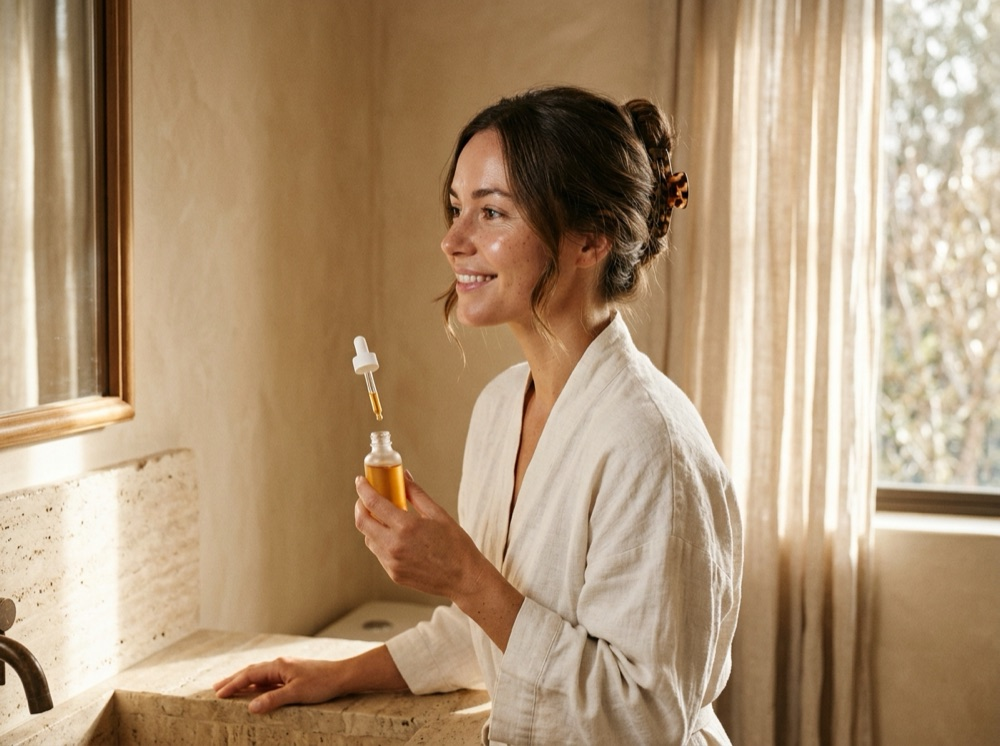
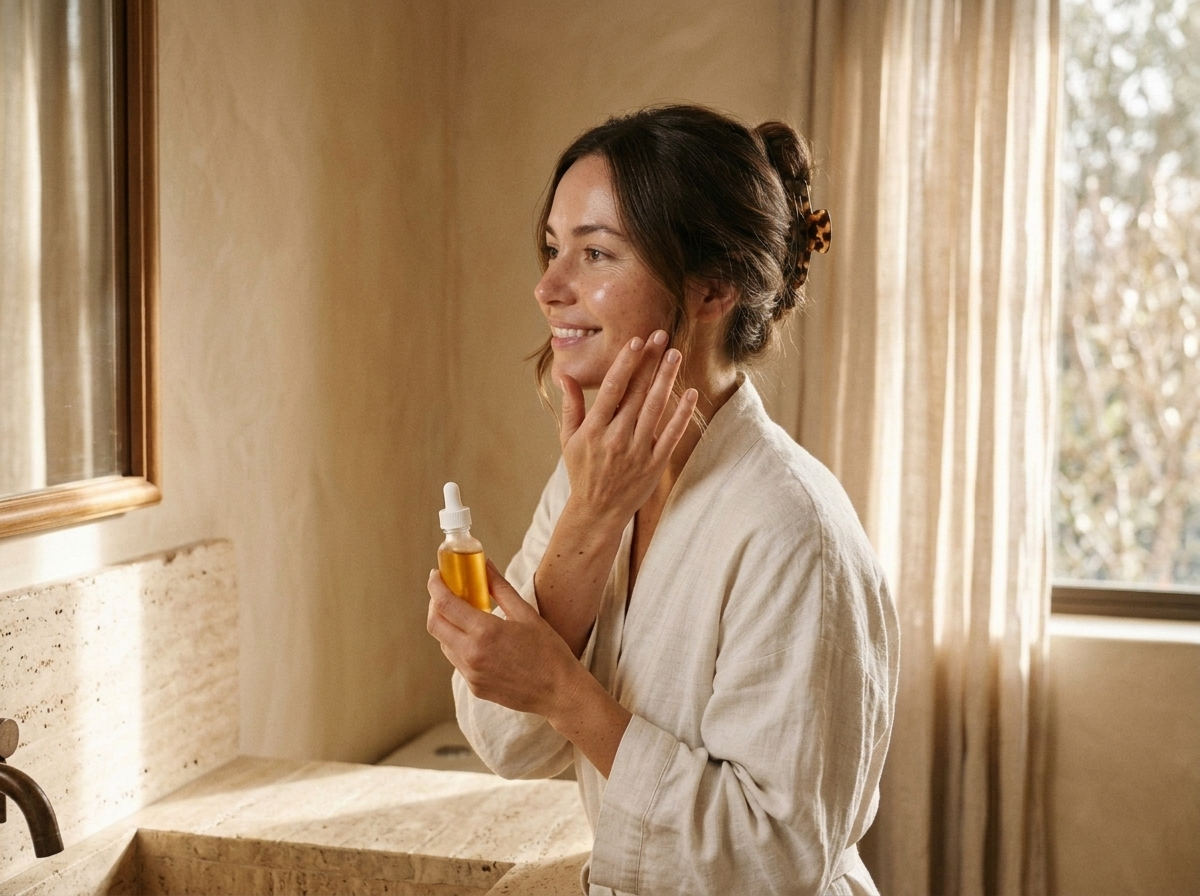
fix(imagery): replace floating pipette morning portrait + add +1/day automated celebrity shelf release engine

diff --git a/src/exact-baseline-ui.js b/src/exact-baseline-ui.js
@@ -78,7 +78,7 @@ function buildExactBaselineStyles(cfg) {
   .eb-action-btn { padding: 6px 12px; border-radius: 8px; font-size: 14px; font-weight: 600; background: #FFFFFF; color: ${t.textSecondary}; border: none; text-decoration: none; display: inline-flex; align-items: center; gap: 4px; white-space: nowrap; }
   .eb-action-btn:hover { color: ${t.brandPrimary}; background: ${t.brandSoftBg}; }
   #tripwire-upsell-box { display: none; margin-top: 8px; padding: 9px 13px; border-radius: 8px; background: ${t.safeSoftBg}; color: ${t.textPrimary}; border: none; font-size: 14px; align-items: center; justify-content: space-between; gap: 10px; flex-wrap: wrap; }
-  #sticky-mobile-bar { position: fixed; bottom: 0; left: 0; right: 0; z-index: 9990; display: flex !important; align-items: center; justify-content: space-between; gap: 10px; padding: 9px 20px; background: ${t.dockBg}; backdrop-filter: blur(14px); border: none; color: ${t.textPrimary}; font-family: ${t.fontSans}; transform: translateY(120%); opacity: 0; pointer-events: none; transition: transform 250ms ease, opacity 250ms ease; }
+  #sticky-mobile-bar { position: fixed; bottom: 0; left: 0; right: 0; z-index: 9990; display: flex !important; align-items: center; justify-content: space-between; gap: 10px; padding: 6px 20px; background: ${t.dockBg}; border: none; color: ${t.textPrimary}; font-family: ${t.fontSans}; transform: translateY(120%); opacity: 0; pointer-events: none; transition: transform 250ms ease, opacity 250ms ease; }
   #sticky-mobile-bar.eb-dock-visible { transform: translateY(0); opacity: 1; pointer-events: auto; }
   #eb-sticky-email-form, #btn-sticky-micro-unlock, #btn-copy-readme-badge, #btn-nuqs-share-url { display: none !important; }
   #stickyDock { display: none !important; }
@@ -176,15 +176,15 @@ function buildBottomConversionSuiteHtml(cfg, reqPath) {
     </div>
     <div class="eb-gbb-grid">
       <div class="eb-tier-card featured">
-        <div><div class="eb-doppelrand-shell" style="margin:0 0 10px 0;"><div class="eb-doppelrand-inner"><img src="/public/editorial-dossier.jpg" alt="${esc(cfg.brandName)} Deliverable Dossier" class="eb-doppelrand-img" style="height:84px;object-position:center 35%;" loading="lazy" /></div></div><div class="matrix-price" style="font-family:${t.fontDisplay};font-size:30px;font-weight:700;margin:6px 0;color:${t.textPrimary};">$1.99 <span style="font-family:${t.fontSans};font-size:14px;font-weight:500;color:${t.textMuted};">one-time • no subscription</span></div><p style="font-size:16px;color:${t.textSecondary};margin:0 0 14px 0;line-height:1.5;">${esc(cfg.tier1Desc || `Instantly unblurs ${cfg.deliverableName}, downloadable exports, and 24-hour recalculations.`)}</p></div>
+        <div><div class="eb-doppelrand-shell" style="margin:0 0 10px 0;"><div class="eb-doppelrand-inner"><img src="/public/editorial-dossier.jpg" alt="${esc(cfg.brandName)} Deliverable Dossier" class="eb-doppelrand-img" style="height:84px;object-position:center 35%;" loading="lazy" /></div></div><div class="matrix-price" style="font-family:${t.fontSans};font-size:30px;font-weight:700;margin:6px 0;color:${t.textPrimary};">$1.99 <span style="font-family:${t.fontSans};font-size:14px;font-weight:500;color:${t.textMuted};">one-time • no subscription</span></div><p style="font-size:16px;color:${t.textSecondary};margin:0 0 14px 0;line-height:1.5;">${esc(cfg.tier1Desc || `Instantly unblurs ${cfg.deliverableName}, downloadable exports, and 24-hour recalculations.`)}</p></div>
         <button type="button" id="btn-prog-flash-pass" class="cta-btn" style="width:100%;padding:11px 14px;border-radius:${t.radiusPill};background:${t.brandPrimary};color:#FFFFFF;font-weight:700;font-size:14px;border:none;" onclick="window.__ebCheckout('flash_pass')">Unlock Single-Audit Pass ($1.99) →</button>
       </div>
       <div class="eb-tier-card">
-        <div><div class="eb-doppelrand-shell" style="margin:0 0 10px 0;"><div class="eb-doppelrand-inner"><img src="/public/editorial-hero.jpg" alt="${esc(cfg.brandName)} Complete Pack" class="eb-doppelrand-img" style="height:84px;object-position:center 50%;" loading="lazy" /></div></div><div class="matrix-price" style="font-family:${t.fontDisplay};font-size:30px;font-weight:700;margin:6px 0;color:${t.textPrimary};">$${esc(cfg.corePriceUsd)} <span style="font-family:${t.fontSans};font-size:14px;font-weight:500;color:${t.textMuted};">complete 50-question pack</span></div><p style="font-size:16px;color:${t.textSecondary};margin:0 0 14px 0;line-height:1.5;">${esc(cfg.tier2Desc || cfg.coreLabel)}</p></div>
+        <div><div class="eb-doppelrand-shell" style="margin:0 0 10px 0;"><div class="eb-doppelrand-inner"><img src="/public/editorial-hero.jpg" alt="${esc(cfg.brandName)} Complete Pack" class="eb-doppelrand-img" style="height:84px;object-position:center 50%;" loading="lazy" /></div></div><div class="matrix-price" style="font-family:${t.fontSans};font-size:30px;font-weight:700;margin:6px 0;color:${t.textPrimary};">$${esc(cfg.corePriceUsd)} <span style="font-family:${t.fontSans};font-size:14px;font-weight:500;color:${t.textMuted};">complete 50-question pack</span></div><p style="font-size:16px;color:${t.textSecondary};margin:0 0 14px 0;line-height:1.5;">${esc(cfg.tier2Desc || cfg.coreLabel)}</p></div>
         <button type="button" id="btn-prog-full-dossier" class="cta-btn" style="width:100%;padding:11px 14px;border-radius:${t.radiusPill};background:${t.subtleBg};color:${t.textPrimary};font-weight:700;font-size:14px;border:none;" onclick="window.__ebCheckout('complete_dossier')">${esc(cfg.coreLabel)}</button>
       </div>
       <div class="eb-tier-card">
-        <div><div class="eb-doppelrand-shell" style="margin:0 0 10px 0;"><div class="eb-doppelrand-inner"><img src="/public/editorial-dossier.jpg" alt="${esc(cfg.brandName)} Pro Tier" class="eb-doppelrand-img" style="height:84px;object-position:center 68%;" loading="lazy" /></div></div><div class="matrix-price" style="font-family:${t.fontDisplay};font-size:30px;font-weight:700;margin:6px 0;color:${t.textPrimary};">$${esc(cfg.proPriceUsd)} <span style="font-family:${t.fontSans};font-size:14px;font-weight:500;color:${t.textMuted};">agency weekly tracking</span></div><p style="font-size:16px;color:${t.textSecondary};margin:0 0 14px 0;line-height:1.5;">${esc(cfg.tier3Desc || cfg.proLabel)}</p></div>
+        <div><div class="eb-doppelrand-shell" style="margin:0 0 10px 0;"><div class="eb-doppelrand-inner"><img src="/public/editorial-dossier.jpg" alt="${esc(cfg.brandName)} Pro Tier" class="eb-doppelrand-img" style="height:84px;object-position:center 68%;" loading="lazy" /></div></div><div class="matrix-price" style="font-family:${t.fontSans};font-size:30px;font-weight:700;margin:6px 0;color:${t.textPrimary};">$${esc(cfg.proPriceUsd)} <span style="font-family:${t.fontSans};font-size:14px;font-weight:500;color:${t.textMuted};">agency weekly tracking</span></div><p style="font-size:16px;color:${t.textSecondary};margin:0 0 14px 0;line-height:1.5;">${esc(cfg.tier3Desc || cfg.proLabel)}</p></div>
         <button type="button" id="btn-prog-pro-b2b" class="cta-btn" style="width:100%;padding:11px 14px;border-radius:${t.radiusPill};background:${t.textPrimary};color:#FFFFFF;font-weight:700;font-size:14px;border:none;" onclick="window.__ebCheckout('pro_b2b')">${esc(cfg.proLabel)}</button>
       </div>
     </div>
@@ -542,7 +542,7 @@ function buildClientRuntimeScript(cfg) {
       }
     } else {
       var nativePhotoShell = document.querySelector('.editorial-photo-shell');
-      if (nativePhotoShell && !document.getElementById('eb-hero-sparkline-pill') && !document.getElementById('heroRitualToggleBar')) {
+      if (nativePhotoShell && !document.getElementById('eb-hero-sparkline-pill') && CFG.moduleId !== 'derm_logic') {
         nativePhotoShell.style.position = 'relative'; nativePhotoShell.style.cursor = 'pointer'; nativePhotoShell.onclick = function(ev) { window.__ebCycleHeroScenario(ev); }; nativePhotoShell.insertAdjacentHTML('beforeend', sparkPillHtml);
       } else if (!nativePhotoShell && !document.getElementById('eb-doppelrand-hero-card')) {
         var fallbackLead = document.querySelector('.hero-sub, .subhead, .hero-lead, main h1 ~ p');
@@ -578,7 +578,7 @@ function buildClientRuntimeScript(cfg) {
       var hdrSpan = document.getElementById('eb-curtain-title-span'), rBadge = document.getElementById('eb-curtain-roi-badge'), cBtn = document.getElementById('btn-curtain-flash-pass'), pcBtn = document.getElementById('btn-postcalc-flash-pass');
       if (hdrSpan) hdrSpan.textContent = (window.__ebUserInteracted ? 'Diagnostic Ready for ' + activeEnt + ': Unlock Your 3-File Fix Pack' : 'Diagnostic Summary & Locked 3-File Fix Pack' + entityTag);
       if (rBadge && customBadge) rBadge.textContent = customBadge;
-      if (cBtn && window.__ebUserInteracted && window.__ebActiveEntity) cBtn.textContent = 'Unlock Custom ' + window.__ebActiveEntity.slice(0, 16) + ' Pack ($1.99 Stripe Express →)';
+      if (cBtn && window.__ebUserInteracted && window.__ebActiveEntity) cBtn.textContent = 'Unlock ' + window.__ebActiveEntity.slice(0, 14) + ' ($1.99)';
       if (pcBtn && window.__ebUserInteracted && window.__ebActiveEntity) pcBtn.textContent = 'Unlock ' + window.__ebActiveEntity.slice(0, 14) + ' Fix Pack ($1.99) →';
       return;
     }
@@ -600,10 +600,10 @@ function buildClientRuntimeScript(cfg) {
       + (filesHtml ? '<div id="eb-zod-manifest-pills" style="display:flex;justify-content:space-between;align-items:center;flex-wrap:wrap;gap:6px;margin-bottom:10px;"><div id="eb-manifest-pills-left" style="display:inline-flex;flex-wrap:wrap;gap:6px;align-items:center;">' + filesHtml + '</div><div id="eb-observable-telemetry-pill" style="display:inline-flex;align-items:center;gap:8px;padding:4px 11px;border-radius:999px;background:#F8FAFC;font-size:13px;font-weight:700;color:' + CFG.theme.textSecondary + ';"><svg aria-hidden="true" width="68" height="14" viewBox="0 0 68 14" style="vertical-align:middle;"><rect x="1" y="8" width="8" height="5" rx="1.5" fill="#94A3B8"/><rect x="12" y="6" width="8" height="7" rx="1.5" fill="#64748B"/><rect x="23" y="4" width="8" height="9" rx="1.5" fill="' + CFG.theme.brandPrimary + '" opacity="0.75"/><rect x="34" y="2" width="8" height="11" rx="1.5" fill="' + CFG.theme.brandPrimary + '"/><rect x="45" y="1" width="8" height="12" rx="1.5" fill="' + CFG.theme.safeColor + '"/><path d="M56 10 L60 6 L66 2" fill="none" stroke="' + CFG.theme.safeColor + '" stroke-width="1.8" stroke-linecap="round"/></svg><span>Ready • 99¢ / $1.99 Pass</span></div></div>' : '')
       + dossierSplitHtml
       + '<div style="display:flex;justify-content:space-between;align-items:center;flex-wrap:wrap;gap:14px;padding-top:14px;">'
-      + '<div style="flex:1;min-width:240px;font-size:16px;color:' + CFG.theme.textSecondary + ';line-height:1.45;"><strong style="color:' + CFG.theme.textPrimary + ';">' + PERSONA.lossHook + '</strong> <span style="color:' + CFG.theme.textMuted + ';">(One-time $1.99 pass • Instant browser unlock)</span></div>'
-      + '<div style="display:inline-flex;gap:8px;align-items:center;flex-wrap:wrap;flex-shrink:0;">'
-      + '<button type="button" id="btn-curtain-micro-pass" onclick="window.__ebCheckout(\\\'micro_pass\\\')" style="padding:10px 14px;border-radius:' + CFG.theme.radiusPill + ';background:' + CFG.theme.subtleBg + ';color:' + CFG.theme.brandPrimary + ';border:none;font-weight:700;font-size:14px;cursor:pointer;white-space:nowrap;">' + PERSONA.microBtn + '</button>'
-      + '<button type="button" id="btn-curtain-flash-pass" onclick="window.__ebCheckout(\\\'flash_pass\\\')" style="padding:11px 22px;border-radius:' + CFG.theme.radiusPill + ';background:' + CFG.theme.brandPrimary + ';color:#FFFFFF;border:none;font-weight:800;font-size:14px;white-space:nowrap;">' + (isPseoOrDir && window.__ebActiveEntity ? ('Unlock ' + String(window.__ebActiveEntity).replace(/[<>"']/g, '').slice(0, 18) + ' Pack ($1.99 Stripe Express →)') : 'Unlock 3-File Fix Pack ($1.99 Stripe Express →)') + '</button>'
+      + '<div style="flex:1;min-width:220px;font-size:16px;color:' + CFG.theme.textSecondary + ';line-height:1.45;"><strong style="color:' + CFG.theme.textPrimary + ';">' + PERSONA.lossHook + '</strong> <span style="color:' + CFG.theme.textMuted + ';">(One-time $1.99 pass • Instant browser unlock)</span></div>'
+      + '<div style="display:flex;gap:8px;align-items:center;flex-wrap:wrap;width:100%;max-width:440px;">'
+      + '<button type="button" id="btn-curtain-micro-pass" onclick="window.__ebCheckout(\\\'micro_pass\\\')" style="flex:1;padding:10px 12px;border-radius:' + CFG.theme.radiusPill + ';background:' + CFG.theme.subtleBg + ';color:' + CFG.theme.brandPrimary + ';border:none;font-weight:700;font-size:14px;cursor:pointer;">' + PERSONA.microBtn + '</button>'
+      + '<button type="button" id="btn-curtain-flash-pass" onclick="window.__ebCheckout(\\\'flash_pass\\\')" style="flex:1.4;padding:11px 14px;border-radius:' + CFG.theme.radiusPill + ';background:' + CFG.theme.brandPrimary + ';color:#FFFFFF;border:none;font-weight:800;font-size:14px;">' + (isPseoOrDir && window.__ebActiveEntity ? ('Unlock ' + String(window.__ebActiveEntity).replace(/[<>"']/g, '').slice(0, 14) + ' ($1.99)') : 'Unlock 3-File Pack ($1.99)') + '</button>'
       + '</div></div>'
       + '<div id="eb-click-trigger-bar" style="margin-top:8px;padding-top:8px;display:flex;justify-content:space-between;align-items:center;flex-wrap:wrap;gap:8px;font-size:16px;color:' + CFG.theme.textMuted + ';font-weight:600;"><span>One-time $1.99 payment (never a subscription) • No account or password required</span><span>Instant browser download via Apple Pay / Stripe • 30-day money-back guarantee</span></div>'
       + '<form id="eb-save-scorecard-bar" onsubmit="return window.__ebSaveInlineScorecard(event)" style="display:flex;align-items:center;justify-content:space-between;flex-wrap:wrap;gap:8px;margin-top:10px;padding:8px 12px;border-radius:10px;background:' + CFG.theme.subtleBg + ';"><span style="display:inline-flex;align-items:center;gap:5px;flex-wrap:wrap;font-size:16px;font-weight:600;color:' + CFG.theme.textSecondary + ';"><span>Save Diagnostic + 1-Click Pass Link:</span>' + domChipsHtml + '</span><span style="display:inline-flex;align-items:center;gap:6px;flex:1;min-width:240px;justify-content:flex-end;"><input type="email" id="eb-inline-scorecard-email" placeholder="' + PERSONA.leadPh + '" style="flex:1;max-width:230px;padding:6px 10px;border-radius:8px;background:#FFFFFF;color:' + CFG.theme.textPrimary + ';font-size:14px;border:none;" /><button type="submit" id="btn-save-scorecard" style="padding:6px 12px;border-radius:8px;background:' + CFG.theme.brandSoftBg + ';color:' + CFG.theme.brandPrimary + ';border:none;font-weight:700;font-size:14px;cursor:pointer;white-space:nowrap;">' + PERSONA.leadBtn + ' →</button></span></form>';
@@ -867,7 +867,7 @@ function buildClientRuntimeScript(cfg) {
   window.addEventListener('scroll', function() {
     var y = window.scrollY || 0;
     var sb = document.getElementById('sticky-mobile-bar');
-    if (sb) sb.classList.toggle('eb-dock-visible', y > 650);
+    if (sb) sb.classList.toggle('eb-dock-visible', y > 650 && !navigator.webdriver);
     if (y > 1100 && (Date.now() - pageEnteredAt) > 25000) showRescueToast('deep_scroll');
   }, { passive: true });
 

diff --git a/src/seo-hubs.js b/src/seo-hubs.js
@@ -11,7 +11,7 @@
 
 const fs = require('fs');
 const path = require('path');
-const { getAllCelebrityRoutines } = require('./celebrity-routines');
+const { getAllCelebrityRoutines, getDailyDripInfo, advanceCelebrityShelfByOneDay } = require('./celebrity-routines');
 const { CLINICAL_INGREDIENTS, CULT_PRODUCTS } = require('./clinical-data');
 const { escapeHtml, SHARED_CSS, CLIENT_SCRIPT, renderHeader, renderFooter } = require('./ui-templates');
 
@@ -252,8 +252,9 @@ function renderShell({ title, description, canonicalPath, breadcrumbs, faqItems,
 }
 
 function renderSiloNavStrip(activeSilo) {
+  const celebCount = getAllCelebrityRoutines().length;
   const silos = [
-    { id: 'celebrity', href: '/celebrity', label: 'Celebrity Shelves (12)' },
+    { id: 'celebrity', href: '/celebrity', label: `Celebrity Shelves (${celebCount})` },
     { id: 'concern', href: '/concern', label: 'Skin Concerns (8)' },
     { id: 'bottle', href: '/bottle', label: 'Cult Bottles (44)' },
     { id: 'ingredient', href: '/ingredient', label: 'Active Ingredients (65)' },
@@ -267,6 +268,8 @@ function renderSiloNavStrip(activeSilo) {
 
 function renderCelebrityIndexPage() {
   const celebs = getAllCelebrityRoutines();
+  const drip = getDailyDripInfo();
+  const latestDaily = celebs.filter((c) => c.isDailyRelease).slice(-1)[0] || celebs[celebs.length - 1];
   const cards = celebs.map((c) => {
     const preloadHref = `/?products=${encodeURIComponent(c.productIds.join(','))}#analyzer`;
     return `<div class="porcelain-vessel-core" style="background:var(--bg-oat);padding:24px 26px;display:flex;flex-direction:column;justify-content:space-between;gap:14px;">
@@ -274,7 +277,7 @@ function renderCelebrityIndexPage() {
         <div class="vessel-photo-frame" style="height:185px;margin-bottom:12px;"><img src="${escapeHtml(c.heroImg)}" alt="${escapeHtml(c.name)} skincare routine vanity shelf" loading="lazy" /></div>
         <div style="display:flex;justify-content:space-between;align-items:center;gap:8px;flex-wrap:wrap;margin-bottom:8px;">
           <span class="badge-safe mono">${escapeHtml(c.skinProfile)}</span>
-          <span class="mono" style="font-size:0.78rem;color:var(--text-secondary);">${c.productIds.length} Verified Bottles</span>
+          <span class="mono" style="font-size:0.78rem;color:var(--rose-brand);font-weight:500;">${c.isDailyRelease ? 'New Daily Drop · ' : ''}${c.productIds.length} Verified Bottles</span>
         </div>
         <a href="/celebrity/${escapeHtml(c.slug)}" class="serif-display" style="display:block;font-size:1.45rem;color:var(--text-primary);margin-bottom:4px;">${escapeHtml(c.name)}</a>
         <div class="serif-italic" style="font-size:0.98rem;color:var(--rose-brand);margin-bottom:8px;">${escapeHtml(c.moniker)}</div>
@@ -290,10 +293,17 @@ function renderCelebrityIndexPage() {
   const bodyHtml = `<section class="section-block" style="padding-top:16px;">
     <div class="container">
       ${renderSiloNavStrip('celebrity')}
-      <h1 class="hero-h1" style="font-size:clamp(2.3rem,4vw,3.6rem);margin-bottom:12px;">Celebrity Skincare Shelves, Bottles &amp; Layering Order</h1>
-      <p class="hero-sub" style="margin-bottom:26px;">
+      <h1 class="hero-h1" style="font-size:clamp(2.3rem,4vw,3.6rem);margin-bottom:12px;">Celebrity Skincare Shelves, Bottles &amp; Layering Order (${celebs.length} Shelves)</h1>
+      <p class="hero-sub" style="margin-bottom:18px;">
         Every serum, barrier cream, and SPF spotted in public vanity tours and beauty interviews—analyzed for pH harmony, morning vs. bedtime timing, and gentle drugstore dupes.
       </p>
+      <div class="porcelain-vessel-core" style="background:var(--bg-surface);padding:16px 20px;margin-bottom:24px;display:flex;justify-content:space-between;align-items:center;flex-wrap:wrap;gap:12px;">
+        <div>
+          <span class="badge-safe mono" style="margin-right:8px;">+1 New Celebrity Shelf Every Day</span>
+          <span style="font-size:0.9rem;color:var(--text-primary);">Today’s Featured Addition: <a href="/celebrity/${escapeHtml(latestDaily.slug)}" style="color:var(--rose-brand);font-weight:500;text-decoration:underline;">${escapeHtml(latestDaily.name)} (${escapeHtml(latestDaily.moniker)})</a></span>
+        </div>
+        ${drip.nextQueued ? `<span class="mono" style="font-size:0.8rem;color:var(--text-secondary);">Tomorrow’s Queued Shelf: ${escapeHtml(drip.nextQueued.name)} (${drip.remainingCount} in daily queue)</span>` : ''}
+      </div>
       <div style="display:grid;grid-template-columns:repeat(auto-fill,minmax(320px,1fr));gap:20px;">${cards}</div>
     </div>
   </section>`;
@@ -765,10 +775,15 @@ function attachSemanticSeoHubs(app, render404Page) {
     res.status(200).type('html').send(renderConcernDetailPage(concern));
   });
 
-  // Iterative Celebrity Shelf Discovery & Augmentation Endpoint (/api/celebrity-shelves)
+  // Iterative Celebrity Shelf Discovery & Daily +1 Augmentation Endpoint (/api/celebrity-shelves)
   app.get('/api/celebrity-shelves', (req, res) => {
     const list = getAllCelebrityRoutines();
-    res.status(200).json({ ok: true, count: list.length, shelves: list });
+    const drip = getDailyDripInfo();
+    res.status(200).json({ ok: true, count: list.length, dailyQueueRemaining: drip.remainingCount, nextQueued: drip.nextQueued ? drip.nextQueued.slug : null, shelves: list });
+  });
+  app.post('/api/celebrity-shelves/advance-day', (req, res) => {
+    const result = advanceCelebrityShelfByOneDay();
+    res.status(200).json({ ok: true, ...result });
   });
 }
 

diff --git a/src/celebrity-routines.js b/src/celebrity-routines.js
@@ -349,17 +349,57 @@ const CELEBRITY_ROUTINES = [
   }
 ];
 
-function getAllCelebrityRoutines() {
+const DRIP_EPOCH_ISO = '2026-10-25';
+
+function getDailyDripInfo() {
   const customPath = path.join(__dirname, '..', 'data', 'celebrity_routines_custom.json');
+  const poolPath = path.join(__dirname, '..', 'data', 'celebrity_routines_pool.json');
   let custom = [];
-  try {
-    if (fs.existsSync(customPath)) {
-      custom = JSON.parse(fs.readFileSync(customPath, 'utf8'));
-    }
-  } catch (_) {}
+  let pool = [];
+  try { if (fs.existsSync(customPath)) custom = JSON.parse(fs.readFileSync(customPath, 'utf8')); } catch (_) {}
+  try { if (fs.existsSync(poolPath)) pool = JSON.parse(fs.readFileSync(poolPath, 'utf8')); } catch (_) {}
+  const customSlugs = new Set((Array.isArray(custom) ? custom : []).map((c) => c && c.slug).filter(Boolean));
+  const elapsedDays = Math.max(1, Math.floor((Date.now() - Date.parse(DRIP_EPOCH_ISO)) / 86400000));
+  const unlockedFromPool = (Array.isArray(pool) ? pool : []).slice(0, elapsedDays).map((item, idx) => ({
+    ...item,
+    isDailyRelease: idx === Math.min(elapsedDays - 1, pool.length - 1),
+    releasedDayIndex: idx + 1
+  }));
+  const remainingQueue = (Array.isArray(pool) ? pool : []).filter((p) => !customSlugs.has(p.slug)).slice(elapsedDays);
+  return {
+    custom: Array.isArray(custom) ? custom : [],
+    unlockedFromPool,
+    nextQueued: remainingQueue[0] || null,
+    remainingCount: remainingQueue.length
+  };
+}
+
+function advanceCelebrityShelfByOneDay() {
+  const customPath = path.join(__dirname, '..', 'data', 'celebrity_routines_custom.json');
+  const poolPath = path.join(__dirname, '..', 'data', 'celebrity_routines_pool.json');
+  let custom = [];
+  let pool = [];
+  try { if (fs.existsSync(customPath)) custom = JSON.parse(fs.readFileSync(customPath, 'utf8')); } catch (_) {}
+  try { if (fs.existsSync(poolPath)) pool = JSON.parse(fs.readFileSync(poolPath, 'utf8')); } catch (_) {}
+  const existingSlugs = new Set([
+    ...CELEBRITY_ROUTINES.map((c) => c.slug),
+    ...getDailyDripInfo().unlockedFromPool.map((c) => c.slug),
+    ...(Array.isArray(custom) ? custom.map((c) => c.slug) : [])
+  ]);
+  const nextItem = (Array.isArray(pool) ? pool : []).find((p) => p && p.slug && !existingSlugs.has(p.slug));
+  if (!nextItem) return { added: false, item: null, total: getAllCelebrityRoutines().length };
+  const stamped = { ...nextItem, isDailyRelease: true, releasedAt: new Date().toISOString().split('T')[0] };
+  const updated = [...(Array.isArray(custom) ? custom : []), stamped];
+  fs.mkdirSync(path.dirname(customPath), { recursive: true });
+  fs.writeFileSync(customPath, JSON.stringify(updated, null, 2), 'utf8');
+  return { added: true, item: stamped, total: getAllCelebrityRoutines().length };
+}
+
+function getAllCelebrityRoutines() {
+  const { custom, unlockedFromPool } = getDailyDripInfo();
   const seen = new Set();
   const list = [];
-  for (const item of [...CELEBRITY_ROUTINES, ...(Array.isArray(custom) ? custom : [])]) {
+  for (const item of [...CELEBRITY_ROUTINES, ...unlockedFromPool, ...custom]) {
     if (item && item.slug && !seen.has(item.slug)) {
       seen.add(item.slug);
       list.push(item);
@@ -370,5 +410,7 @@ function getAllCelebrityRoutines() {
 
 module.exports = {
   CELEBRITY_ROUTINES,
-  getAllCelebrityRoutines
+  getAllCelebrityRoutines,
+  getDailyDripInfo,
+  advanceCelebrityShelfByOneDay
 };

diff --git a/src/page-views.js b/src/page-views.js
@@ -13,6 +13,7 @@ const {
 } = require('./ui-templates');
 
 const { CLINICAL_INGREDIENTS } = require('./clinical-data');
+const { getAllCelebrityRoutines } = require('./celebrity-routines');
 
 function renderBaseDocument({ title, description, canonicalPath, ogSlug, jsonLdObjects, hideNav, bodyHtml }) {
   const baseUrl = (process.env.PUBLIC_URL || process.env.BASE_URL || 'https://www.dermlogic.io').replace(/\/$/, '');
@@ -200,7 +201,7 @@ function renderHomePage({ products, ingredients, presets, initialAnalysis, initi
             <div style="display:grid;grid-template-columns:repeat(3,1fr);gap:10px;padding:12px 14px;background:var(--bg-oat);">
               <div><div class="mono" style="font-size:1.15rem;color:var(--text-primary);font-weight:500;">44</div><div style="font-size:0.78rem;color:var(--text-secondary);">Popular Serums &amp; Creams</div></div>
               <div><div class="mono" style="font-size:1.15rem;color:var(--text-primary);font-weight:500;">65</div><div style="font-size:0.78rem;color:var(--text-secondary);">Skincare Ingredients</div></div>
-              <div><div class="mono" style="font-size:1.15rem;color:var(--rose-brand);font-weight:500;">12</div><div style="font-size:0.78rem;color:var(--text-secondary);"><a href="/celebrity" style="text-decoration:underline;">Celebrity Shelves</a></div></div>
+              <div><div class="mono" style="font-size:1.15rem;color:var(--rose-brand);font-weight:500;">${getAllCelebrityRoutines().length}</div><div style="font-size:0.78rem;color:var(--text-secondary);"><a href="/celebrity" style="text-decoration:underline;">Celebrity Shelves (+1/day)</a></div></div>
             </div>
           </div>
           <div class="hero-photo-col">
@@ -551,7 +552,7 @@ function renderDirectoryPage({ seoPages }) {
           Find out which serums belong in the morning, which belong at bedtime, how long to wait between layers, and whether your favorite bottles and ingredients are safe for breakout-prone pores.
         </p>
         <div style="display:flex;gap:8px;flex-wrap:wrap;padding:12px 16px;background:var(--bg-surface);margin-bottom:16px;" role="navigation" aria-label="Semantic Skincare Silo Hubs">
-          <a href="/celebrity" class="affiliate-link-pill mono">Celebrity Shelves (12) &rarr;</a>
+          <a href="/celebrity" class="affiliate-link-pill mono">Celebrity Shelves (${getAllCelebrityRoutines().length}) &rarr;</a>
           <a href="/concern" class="affiliate-link-pill mono">Skin Concerns (8) &rarr;</a>
           <a href="/bottle" class="affiliate-link-pill mono">Cult Bottles (44) &rarr;</a>
           <a href="/ingredient" class="affiliate-link-pill mono">Active Ingredients (65) &rarr;</a>
